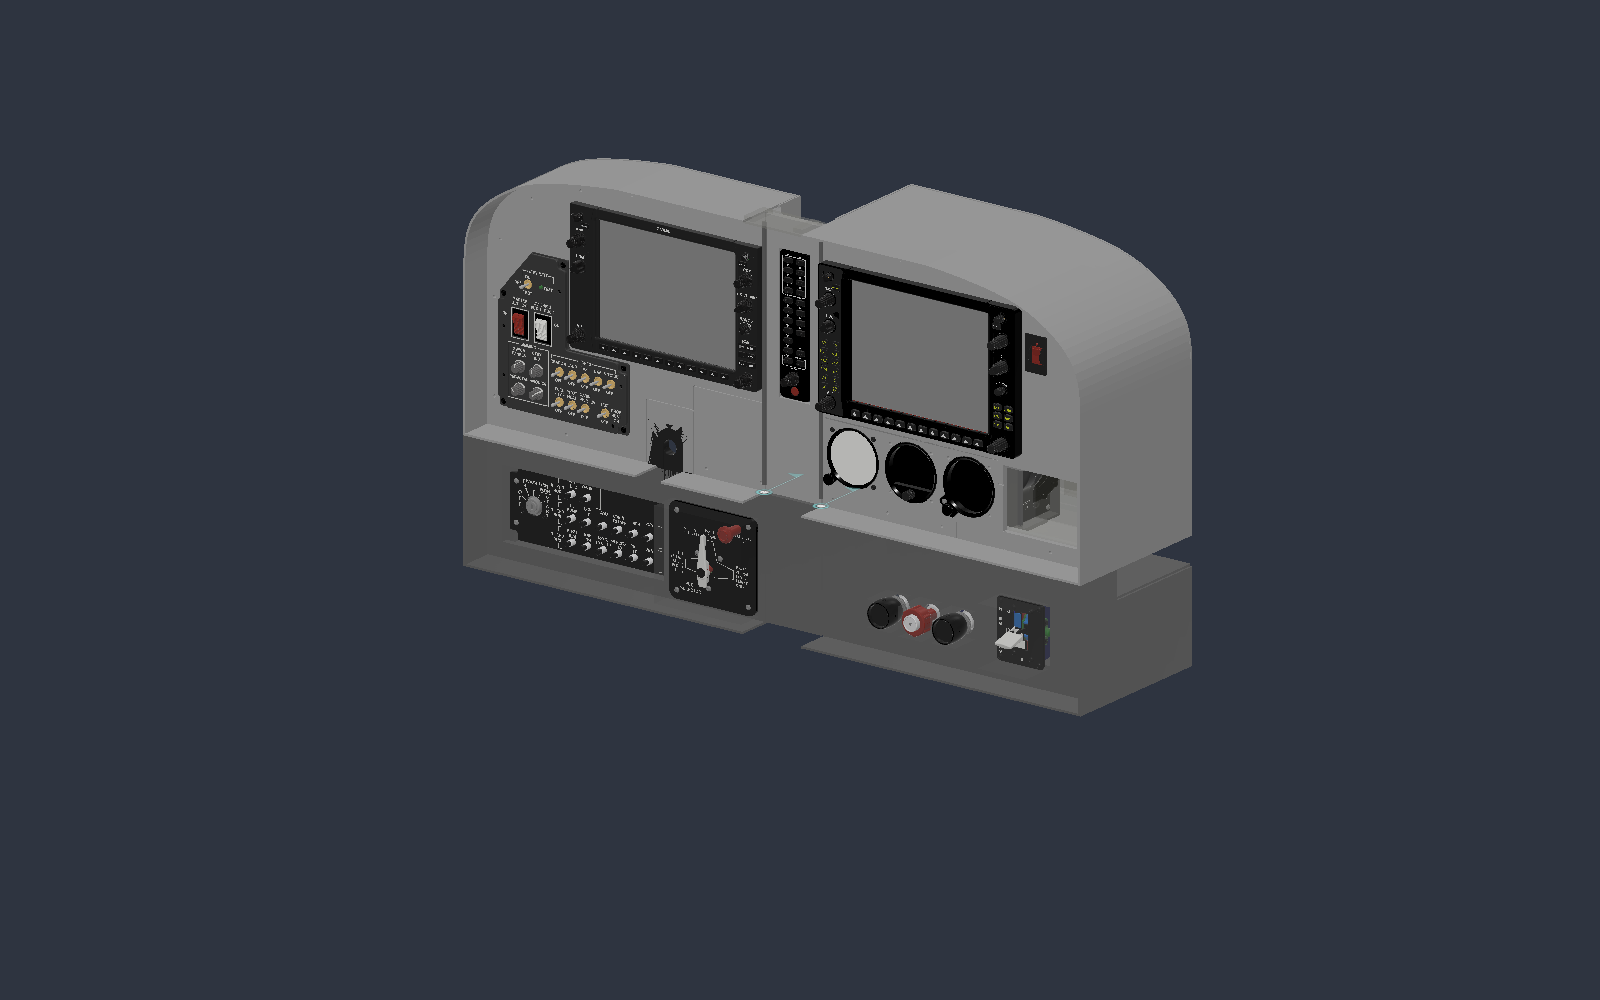
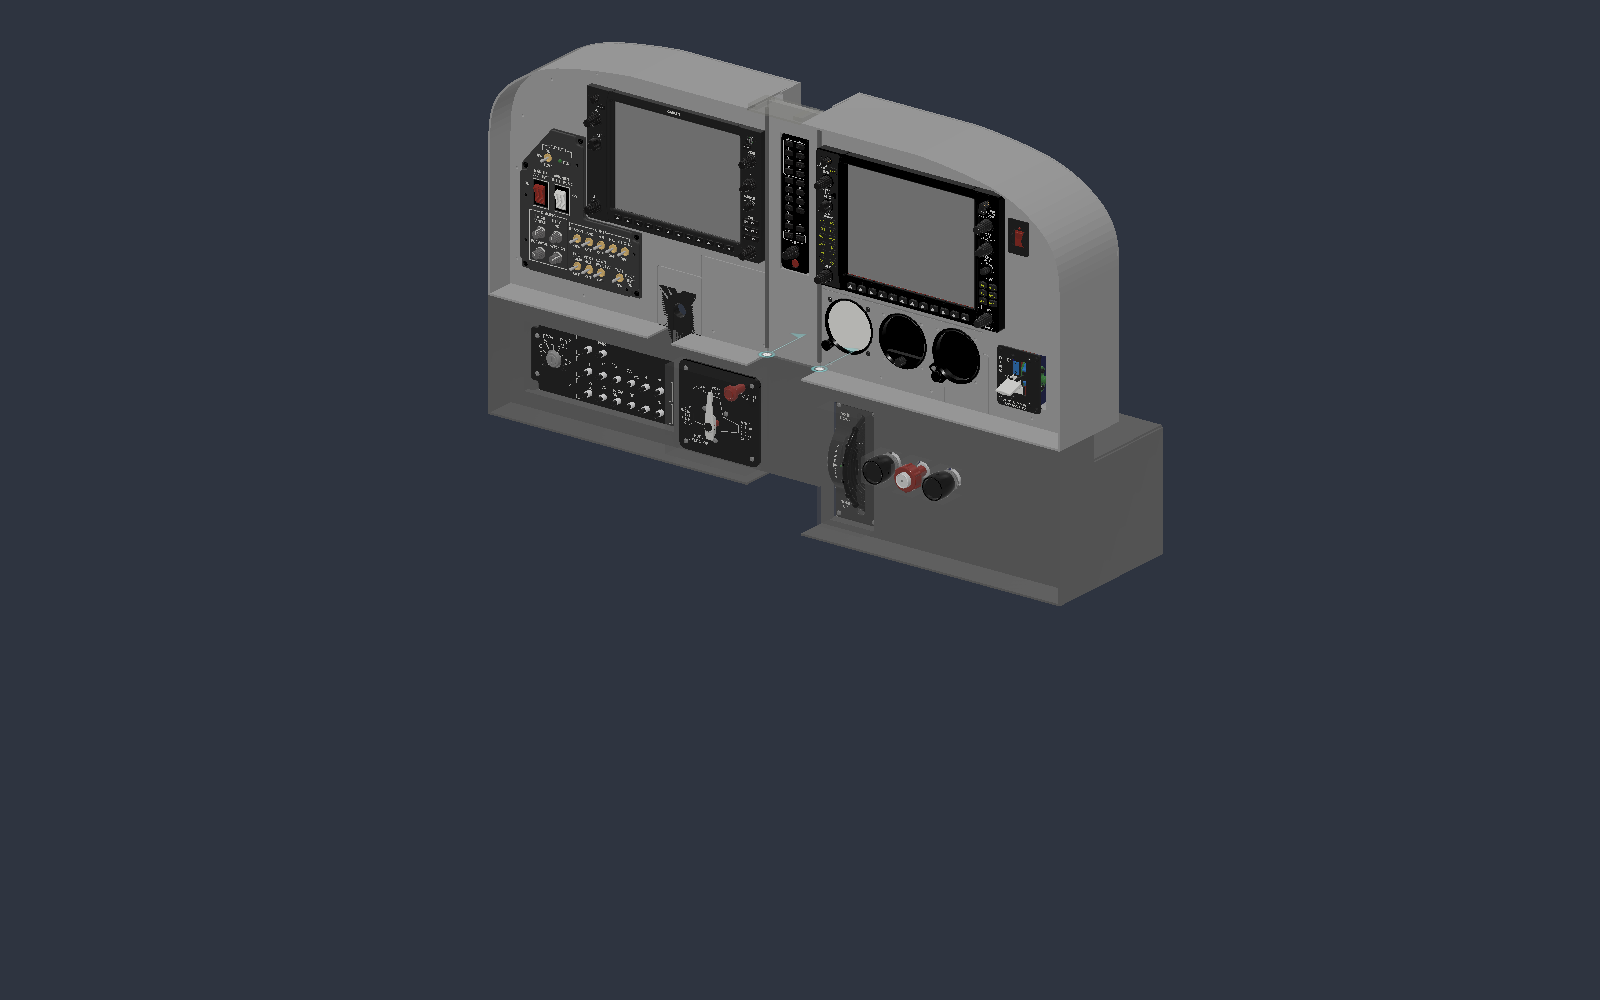
Flaps on the main panel, no storage, trim wheel in the right lower piece
Flaps lever moves to the main panel right of the standby gauges (right face pocket
gone). Main unit carries no storage (quadrant, trim pod, pedestal base removed);
right box 190 -> 90 mm. Trim wheel built into the right lower piece left of the
throttle. Lower panel packs separately: main case closes to 470 x 255 x 399.
Desk/yoke, fold and clash checks clean. BOM, jig list and PDF labels updated.

Changed region(s): [[0.2812, 0.031, 0.75, 0.713]]

diff --git a/fusion/build_lower.py b/fusion/build_lower.py
@@ -15,7 +15,7 @@ P = bcm.P
 
 HOST = {'Left half': 'Lower panel (left)', 'Spacer': 'Lower panel (spacer)', 'Right half': 'Lower panel (right)'}
 BOX_DEPTH = {'Left half': 72.0, 'Right half': 190.0}   # same as the rear boxes above
-LOWER = ('LHS Fuse panel', 'flaps lever', 'FSP3', 'Throttle', 'Mixture', 'Condition')
+LOWER = ('LHS Fuse panel', 'FSP3', 'Throttle', 'Mixture', 'Condition', 'Trim')
 
 
 def X(u):
@@ -55,7 +55,8 @@ def build_lower():
         for ch in o.childOccurrences:
             if ch.component.name.startswith('Lower panel'):
                 hosts[ch.component.name] = ch
-    plates = {h: box(X(a), X(b), -tp, 0, zb_, zt_) for h, (a, b) in spans.items()}
+    zbot = {h: (P['lower_bot_right'] if h == 'Right half' else zb_) for h in spans}
+    plates = {h: box(X(a), X(b), -tp, 0, zbot[h], zt_) for h, (a, b) in spans.items()}
 
     # cut-outs: union footprint (x, z) of each lower module's bodies that pass through the panel plane
     cuts = []
@@ -116,10 +117,11 @@ def build_lower():
             ur0, ur1 = a + 20, b - T
         its = items[h]
         its.append(('2020 Lower rail %d' % round(ur1 - ur0), prof(X(ur0), X(ur1), -tp - T, -tp, zt_ - T, zt_)))
-        its.append(('PANEL lower box side, deep (3 mm)', box(X(so0), X(so1), -B, rim, zb_ - sk, zd_under - sk)))
+        zb_h = zbot[h]
+        its.append(('PANEL lower box side, deep (3 mm)', box(X(so0), X(so1), -B, rim, zb_h - sk, zd_under - sk)))
         its.append(('PANEL lower box side, desk zone (3 mm)', box(X(so0), X(so1), fz, rim, zd_under - sk, zt_)))
-        its.append(('PANEL lower box bottom (3 mm)', box(X(min(so0, ui0)), X(max(so1, ui1)), -B, rim, zb_ - sk, zb_)))
-        its.append(('PANEL lower box lid (3 mm)', box(X(ui0), X(ui1), -B, -B + sk, zb_, zd_under - sk)))
+        its.append(('PANEL lower box bottom (3 mm)', box(X(min(so0, ui0)), X(max(so1, ui1)), -B, rim, zb_h - sk, zb_h)))
+        its.append(('PANEL lower box lid (3 mm)', box(X(ui0), X(ui1), -B, -B + sk, zb_h, zd_under - sk)))
         its.append(('PANEL lower box shelf under desk (3 mm)', box(X(ui0), X(ui1), -B, fz, zd_under - sk, zd_under)))
         its.append(('PANEL lower box desk-zone back (3 mm)', box(X(ui0), X(ui1), fz - sk, fz, zd_under, zt_)))
 

diff --git a/fusion/build_storage.py b/fusion/build_storage.py
@@ -16,7 +16,8 @@ bcm = importlib.util.module_from_spec(spec); spec.loader.exec_module(bcm)
 P = bcm.P
 
 S = dict(
-    tub_back={'Left half': 72.0, 'Right half': 190.0},   # Jason: deep parts live on the right; left is thin (rear frame sits right behind the 2040 upright)
+    tub_back={'Left half': 72.0, 'Right half': 90.0},   # Jason 2026-11-23: no storage in the main unit; right box just clears the flaps lever (76) and standby gauges (65)
+      # Jason: deep parts live on the right; left is thin (rear frame sits right behind the 2040 upright)
       # rear lid outer face behind the panel face; right is deeper (throttle rods, more storage)
     wall=3.0,
     ell_a=236.0, ell_b=153.0, ell_z=216.0,   # his panel's top outer corner curve (approximated as a quarter ellipse)
@@ -118,13 +119,6 @@ def build_storage():
         op(tray, box(X(p0), X(p1), -tp - S['pocket_depth'][h], -tp + 1, q0, q1), SUB)
         items[h].append(('PRINT face pocket tray', tray))
 
-    # stowed: quadrant envelope + pedestal base
-    q = QUADRANT
-    items[q['host']].append(('REF Logitech throttle quadrant 175x175x90 (stowed)', box(X(q['u'][0]), X(q['u'][1]), q['y'][0], q['y'][1], q['z'][0], q['z'][1])))
-    pb = PED_BASE
-    base = box(X(pb['u'][0]), X(pb['u'][1]), pb['y'][0], pb['y'][1], pb['z'][0], pb['z'][1])
-    items[pb['host']].append(('PRINT pedestal base + desk clamp (stowed)', base))
-
     for h, its in items.items():
         if not its:
             continue
@@ -174,7 +168,8 @@ def build_storage():
 
     # fuel selector now lives on the panel (left lower), so only the trim wheel is a clamp-on pod
     # pod(FUEL_POD, 'Fuel selector pod (clamp-on)', (-69.0, -75.0, -66.0), (69.0, -8.0, 66.0))   # tucked between MFD, rail and the corner curve
-    pod(TRIM_POD, 'Trim wheel pod (clamp-on)', (-41.5, -130.0, -90.0), (41.5, 0.0, 90.0))
+    # (storage removed 2026-11-23: no quadrant, trim pod or pedestal base in the main unit)
+    # pod(TRIM_POD, 'Trim wheel pod (clamp-on)', (-41.5, -130.0, -90.0), (41.5, 0.0, 90.0))
     print('storage: tubs %s mm behind face, pockets %d' % (S['tub_back'], len(P['pockets'])))
 
 

diff --git a/fusion/place_vendor.py b/fusion/place_vendor.py
@@ -17,7 +17,8 @@ PLACE = {
     # The flaps lever comes forward 40 mm (lever stands proud like the real one, mechanism stays shallow).
     'Lower Panel Assy v1:1/LHS Fuse panel v1:1': ('Lower panel (left)', 0.0, 12.0, -48.0),
     # (RHS fuse panel removed: throttle / mixture / condition push-pulls take its place, see SPLIT)
-    'Lower Panel Assy v1:1/flaps lever v1:1':    ('Lower panel (right)', 126.0, 40.0, -48.0),   # u 790-872
+    'Lower Panel Assy v1:1/flaps lever v1:1':    ('Right half', 151.0, 40.0, 120.0),   # main panel, right of the standby gauges (u 815-897, z 25-111)
+    'Trim v15:1':          ('Lower panel (right)', 162.0, 0.0, 83.0),   # built into the right lower piece, left of the throttle (u 535-609)   # u 790-872
     # fuel selector on the left lower in the old start-key spot (Jason: keep the key that's in the LHS fuse panel).
     # Face u 288-423, z -119..11 (overlaps the MIP bottom edge by 11 mm), face plate on the panel front; support body
     # fits exactly between the lower 2020 rail (z -105) and the MIP panel bottom (z 0).
@@ -35,7 +36,7 @@ SPLIT = [
     ('Lower Panel Assy v1:1/Mix Lever v1:1', 'Mixture (push-pull, pushed in)', 'Lower panel (right)', 73.0, 12.0, -48.0, MOVE_M),     # knob u 690
     ('Lower Panel Assy v1:1/throt temp v1:1', 'Condition (throttle copy, pushed in)', 'Lower panel (right)', 174.0, 12.0, -48.0, MOVE_T),  # knob u 740
 ]
-LOWER = ('LHS Fuse panel', 'flaps lever', 'FSP3', 'Throttle', 'Mixture', 'Condition')
+LOWER = ('LHS Fuse panel', 'FSP3', 'Throttle', 'Mixture', 'Condition', 'Trim')
 REMOVABLE = ('dUAL kNOB',)     # knobs that come off for travel (GMA volume knob)
 
 

diff --git a/fusion/build_case_mip.py b/fusion/build_case_mip.py
@@ -30,7 +30,9 @@ P = dict(
                                  # edge evens them so the forward-extended rims meet exactly when folded
     rim=46.5,                    # each half's rim (top, curved corner, outer side, bottom) runs this far in front of the face
     skin=3.0,
-    pockets=(('Right half', 800.0, 915.0, 24.0, 112.0),),   # left pocket removed: the yoke housing tunnel runs there
+    pockets=(),                  # face pockets removed (left: yoke tunnel; right: flaps lever moved up there)
+    flaps_cut=(833.0, 897.5, 29.0, 107.0),        # flaps lever on the main panel, right of the standby gauges
+    lower_bot_right=-225.0,      # right lower piece is taller: the trim wheel (172 mm case) sits left of the throttle
 )
 
 
@@ -107,6 +109,8 @@ def build():
         tgt = left_panel if host == 'Left half' else right_panel
         if not op(tgt, box(X(p0), X(p1), -tp - 1, 1, q0, q1), SUB):
             raise RuntimeError('pocket cut failed')
+    fc = P['flaps_cut']
+    op(right_panel, box(X(fc[0]), X(fc[1]), -tp - 1, 1, fc[2], fc[3]), SUB)
     if P['square_top']:          # fill his curved top corners (quarter-ellipse-ish NURBS from z 216 / 236 mm in)
         op(left_panel, box(X(0.0), X(237.0), -tp, 0, 215.0, 369.0), UNI)
         op(right_panel, box(X(920.0 + dR - 237.0), X(920.0 + dR), -tp, 0, 215.0, 369.0), UNI)

diff --git a/fusion/build_jigs.py b/fusion/build_jigs.py
@@ -22,11 +22,11 @@ JIGS = [
     ('J08_standby_attitude', 'Right half', 'PANEL 737', (613.0, 699.0, 28.0, 116.0), 20.0),
     ('J09_standby_altimeter', 'Right half', 'PANEL 737', (699.0, 791.0, 21.0, 116.0), 20.0),
     ('J10_ELT', 'Right half', 'PANEL 737', (834.0, 870.0, 247.0, 293.0), 20.0),
-    ('J11_right_face_pocket', 'Right half', 'PANEL 737', (796.0, 919.0, 20.0, 116.0), 20.0),
+    ('J11_flaps_lever', 'Right half', 'PANEL 737', (829.0, 901.5, 25.0, 111.0), 20.0),   # flaps moved up to the main panel
     ('J12_left_fuse_panel', 'Lower panel (left)', 'PANEL lower', (19.5, 278.0, -155.5, -46.0), 20.0),
     ('J13_fuel_selector', 'Lower panel (left)', 'PANEL lower', (298.0, 412.0, -158.0, -40.0), 20.0),
     ('J14_throttle_mixture_condition', 'Lower panel (right)', 'PANEL lower', (618.0, 762.0, -128.0, -89.0), 20.0),
-    ('J15_flaps_lever', 'Lower panel (right)', 'PANEL lower', (804.0, 877.0, -143.5, -57.5), 20.0),
+    ('J15_trim_wheel', 'Lower panel (right)', 'PANEL lower', (531.0, 613.0, -220.0, -40.0), 18.0),   # trim wheel case, left of the throttle
 ]
 
 

diff --git a/fusion/check_mip_real.py b/fusion/check_mip_real.py
@@ -29,6 +29,8 @@ def check(angles=((90, 90),), include_panels=True):
             if b.boundingBox.minPoint.y < -0.05:      # only parts in front of the panel face can collide
                 coll.add(b); groups.append(tag); tok[b.entityToken] = tag
         for c in o.childOccurrences:
+            if c.component.name.startswith('Lower panel'):
+                continue          # lower panel packs separately (Jason 2026-11-23)
             add_all(c, tag)
     for o in d.rootComponent.occurrences:
         if o.component.name in ('Left half', 'Spacer', 'Right half'):
@@ -37,6 +39,8 @@ def check(angles=((90, 90),), include_panels=True):
                     if b.name.startswith(('PANEL', 'ALU', 'PRINT')):
                         coll.add(b); groups.append(o.component.name); tok[b.entityToken] = o.component.name
             for ch in o.childOccurrences:
+                if ch.component.name.startswith('Lower panel'):
+                    continue
                 add_all(ch, o.component.name)
     out = {}
     for sp, lh in angles:

diff --git a/fabrication/make_trace_pdf.py b/fabrication/make_trace_pdf.py
@@ -21,8 +21,8 @@ GRID = 50.0
 JIGS = [('J01', 'Left main', (134, 430, 131, 326)), ('J02', 'Left main', (19, 223, 28, 245.5)), ('J03', 'Left main', (260, 308, 0, 57)),
         ('J05', 'Spacer panel', (448, 504, 125, 332)), ('J06', 'Right main', (530, 828, 131, 326)),
         ('J07', 'Right main', (523, 611, 28, 116)), ('J08', 'Right main', (613, 699, 28, 116)), ('J09', 'Right main', (699, 791, 21, 116)),
-        ('J10', 'Right main', (834, 870, 247, 293)), ('J11', 'Right main', (796, 919, 20, 116)), ('J12', 'Left lower', (19.5, 278, -155.5, -46)),
-        ('J13', 'Left lower', (298, 412, -158, -40)), ('J14', 'Right lower', (618, 762, -128, -89)), ('J15', 'Right lower', (804, 877, -143.5, -57.5))]
+        ('J10', 'Right main', (834, 870, 247, 293)), ('J11', 'Right main', (829, 901.5, 25, 111)), ('J12', 'Left lower', (19.5, 278, -155.5, -46)),
+        ('J13', 'Left lower', (298, 412, -158, -40)), ('J14', 'Right lower', (618, 762, -128, -89)), ('J15', 'Right lower', (531, 613, -220, -40))]
 
 
 class Pdf:

diff --git a/fusion/build_falsefront.py b/fusion/build_falsefront.py
@@ -16,8 +16,8 @@ Y_FRONT, Y_BACK = -11.5, -122.0     # front stays clear of the seam-angle leaf (
 # (host, inner u0, u1, inner z0, z1)  - inner box contains the fascia footprint
 CUBBIES = []   # Jason scrapped the left false front (2026-11-22); file now only places the hub / PSU envelopes   # top wall ends at z 0 (2020 rail)
 HW = [  # (host, name, u0, u1, z0, z1, y0, y1)
-    ('Right half', 'REF powered USB hub 7-port (115x45x25)', 560.0, 675.0, 240.0, 285.0, -150.0, -125.0),   # right box, behind the quadrant
-    ('Right half', 'REF 12V PSU (LRS-50-12 size 99x82x30)', 560.0, 659.0, 150.0, 232.0, -155.0, -125.0),   # right box, behind the quadrant
+    ('Right half', 'REF powered USB hub 7-port (115x45x25)', 680.0, 795.0, 150.0, 195.0, -55.0, -30.0),   # behind the MFD
+    ('Right half', 'REF 12V PSU (LRS-50-12 size 99x82x30)', 560.0, 659.0, 150.0, 232.0, -60.0, -30.0),   # behind the MFD
 ]
 
 

diff --git a/docs/BOM_MIP_Folding_Case.md b/docs/BOM_MIP_Folding_Case.md
@@ -4,7 +4,7 @@
 
 ## Summary
 
-The case is a bifold clamshell that carries the 737DIYSIM C172 main panel: a left half, an 85 mm spacer with the GMA 1347, and a right half. Deployed, the main unit sits on the desk and overhangs its front edge by 40 mm. It lowers over the Logitech yoke through a slot and a housing tunnel. The lower panel is three separate pieces bolted under it, hanging below the desktop. Packed, the lower pieces stay on and form the base: closed it is about 470 W × 355 D × 548 H mm.
+The case is a bifold clamshell that carries the 737DIYSIM C172 main panel: a left half, an 85 mm spacer with the GMA 1347, and a right half. Deployed, the main unit sits on the desk and overhangs its front edge by 40 mm. It lowers over the Logitech yoke through a slot and a housing tunnel. The lower panel is three separate pieces bolted under it, hanging below the desktop. The main unit carries no storage. Packed, the lower panel travels separately and the main case closes to about 470 W × 255 D × 399 H mm.
 
 All quantities come from the Fusion model (Folding Cockpit Case - C172, latest version). Lengths are in mm.
 
@@ -26,7 +26,7 @@ You need about 4.8 m of 2020, which nests into five 1000 mm bars, plus one 1000 
 | Rear rail, bottom | 2020 | 133 (L) / 390 (R) | 1 / 1 | Left stops short of the tunnel |
 | Rear rail, top | 2020 | 170 (L) / 164 (R) | 1 / 1 | Straight top run |
 | Depth member (left) | 2020 | 20 | 2 | Seam corners only |
-| Depth member (right) | 2020 | 118 / 138 | 2 / 2 | Deeper right box |
+| Depth member (right) | 2020 | 18 / 38 | 2 / 2 | 90 mm right box |
 | Lower panel top rail | 2020 | 390 | 2 | Behind the desk-edge strip of each lower piece |
 | Seam angle | Alu angle 20×20×2 | 369 | 4 | Both halves, plus both spacer edges (spacer pair trimmed to 16 mm leaves for the GMA plate) |
 
@@ -36,7 +36,7 @@ Suggested nesting on 1000 mm 2020 bars:
 2. 390 + 390 + 170
 3. 390 + 369 + 216
 4. 369 + 216 + 170 + 164 + 20 + 20
-5. 164 + 133 + 133 + 138 + 138 + 118 + 118
+5. 164 + 133 + 133 + 38 + 38 + 18 + 18 (about 450 mm left over)
 
 ## Sheet goods
 
@@ -45,17 +45,17 @@ The panels are 9 mm plywood and the skins are 3 mm. The rim skins wrap the curve
 | Part | Material | Size (mm) | Qty | Notes |
 | --- | --- | --- | --- | --- |
 | Main panel, left | 9 mm ply | 430 × 369 | 1 | From his MIP panel file; our yoke hole at shaft height with a slot to the bottom edge |
-| Main panel, right | 9 mm ply | 430 × 369 | 1 | His right section plus the 6 mm edge strip |
+| Main panel, right | 9 mm ply | 430 × 369 | 1 | His right section plus the 6 mm edge strip; flaps lever cut-out right of the standby gauges |
 | Spacer panel | 9 mm ply | 85 × 369 | 1 | 48 × 198 cutout for the GMA 1347 |
 | Lower panel, left | 9 mm ply | 430 × 170 | 1 | Left fuse panel and fuel selector; top 41 mm is the desk-edge strip |
-| Lower panel, right | 9 mm ply | 430 × 170 | 1 | Throttle, mixture, condition, flaps |
+| Lower panel, right | 9 mm ply | 430 × 222 | 1 | Trim wheel, throttle, mixture, condition |
 | Lower panel, spacer | 9 mm ply | 85 × 170 | 1 | Plain |
 | Rim skin, left | 3 mm bending ply or 1.5 mm aluminium | about 1140 × 116 developed | 1 | Side, curved corner, top and bottom of the main unit; tunnel and slot cut in the bottom |
-| Rim skin, right | 3 mm bending ply or 1.5 mm aluminium | about 1140 × 234 developed | 1 | Deeper right box |
+| Rim skin, right | 3 mm bending ply or 1.5 mm aluminium | about 1140 × 134 developed | 1 | Right box is 90 mm deep (flaps lever, standby gauges) |
 | Rear lid | 3 mm ply | about 433 × 375, curved top corner | 2 | Left lid has the tunnel notch |
-| Seam side wall | 3 mm ply | 43 × 375 (left), 161 × 375 (right) | 2 | Hinge side of each box |
+| Seam side wall | 3 mm ply | 43 × 375 (left), 61 × 375 (right) | 2 | Hinge side of each box |
 | Lower box, left | 3 mm ply | bottom 433 × 119, lid 430 × 129, shelf 430 × 41, back 430 × 38, sides 132 × 119 + 78 × 41 | 1 set | Stepped: 31 mm deep at the desk edge, 72 mm under the desk |
-| Lower box, right | 3 mm ply | bottom 433 × 236, lid 430 × 129, shelf 430 × 159, back 430 × 38, sides 236 × 132 + 78 × 41 | 1 set | 190 mm deep under the desk for the push-pull rods |
+| Lower box, right | 3 mm ply | bottom 433 × 236, lid 430 × 181, shelf 430 × 159, back 430 × 38, sides 236 × 184 + 78 × 41 | 1 set | 190 mm deep under the desk for the push-pull rods and trim wheel |
 
 One 1220 × 610 sheet of 9 mm ply covers all six panels. The 3 mm parts need two 1220 × 610 sheets. The rim skins are about 1.15 m long, so buy them as a long strip or join them at the top straight run.
 
@@ -75,8 +75,8 @@ Counts include about 20 % spare. Fastener counts are estimates from the joint co
 | Machine screw + nyloc nut | M3 × 8 | 30 | Hinge leaves to seam angles, every 50 mm |
 | Neodymium magnet | 6 × 3 mm | 6 | Middle glareshield (4), spare |
 | Neodymium magnet + steel disc | 10 × 3 mm | 16 + 16 | Rear lids, 8 per lid |
-| Heat-set insert | M3 | 20 | Pod, pedestal base, tray |
-| Star knob clamp screw + insert | M6 | 1 | Pedestal desk clamp |
+| Heat-set insert | M3 | 20 | Spare (no printed storage parts any more) |
+| Star knob clamp screw + insert | M6 | 1 | Not needed (trim wheel now built in) |
 | Toggle latch | Small draw latch | 3 | Hold the closed rims together; not yet modelled |
 | Carry handle | Surface mount, about 120 mm | 1 | On the top run of one rim; not yet modelled |
 
@@ -91,19 +91,18 @@ The case holds 737DIYSIM modules built from his files. The rest is off the shelf
 | GMA 1347 audio panel | 737DIYSIM | 1 | Spacer, mounted flush; volume knob comes off for travel |
 | Switch and dimmer panel (172 AV PNL) | 737DIYSIM | 1 | Left half |
 | Standby ASI, attitude, altimeter | 737DIYSIM | 1 set | Right half, in the old copilot-yoke area |
+| Flaps lever | 737DIYSIM | 1 | Right half, right of the standby gauges |
 | ELT switch | 737DIYSIM | 1 | Right half |
 | Left fuse panel with key switch | 737DIYSIM | 1 | Left lower piece |
 | Fuel selector (FSP3) | 737DIYSIM | 1 | Left lower piece, beside the fuse panel |
 | Throttle push-pull (lower-panel version) | 737DIYSIM | 2 | Right lower piece: one throttle, one used as condition |
 | Mixture push-pull | 737DIYSIM | 1 | Right lower piece |
-| Flaps lever | 737DIYSIM | 1 | Right lower piece |
-| Trim wheel (Trim v15) | 737DIYSIM | 1 | Clamp-on pod, stored in the right box |
+| Trim wheel (Trim v15) | 737DIYSIM | 1 | Right lower piece, left of the throttle |
 | Yoke adapter | 737DIYSIM | 1 | Left half, moved down to the yoke shaft height |
-| Logitech Flight Throttle Quadrant | Owned | 1 | Stored in the right box |
-| Powered USB hub, 7-port (about 115 × 45 × 25) | Off the shelf | 1 | Right box, behind the quadrant |
-| 12 V power supply, LRS-50-12 size (99 × 82 × 30) | Off the shelf | 1 | Right box, behind the quadrant |
+| Powered USB hub, 7-port (about 115 × 45 × 25) | Off the shelf | 1 | Right box, behind the MFD |
+| 12 V power supply, LRS-50-12 size (99 × 82 × 30) | Off the shelf | 1 | Right box, behind the MFD |
 
-The Logitech yoke (clamped to the desk; the main unit lowers over it) and the rudder pedals travel separately.
+The Logitech yoke (clamped to the desk; the main unit lowers over it), the throttle quadrant, the rudder pedals and the lower panel travel separately from the main case.
 
 ## 3D print list
 
@@ -111,9 +110,6 @@ Every printed case part fits the A1's 256 × 256 × 256 mm build volume. Print i
 
 | Part | Size (mm) | Qty | Fits 256 bed | Print notes |
 | --- | --- | --- | --- | --- |
-| Pedestal base + desk clamp | 220 × 110 × 45 | 1 | Yes | Flat; M6 insert for the clamp screw; stored in the right box |
-| Trim wheel pod shell | 188 × 130 × 83 | 1 | Yes | Open side up; slides onto the pedestal base; stored in the right box |
-| Face pocket tray, right | 119 × 92 × 62 | 1 | Yes | Open front down |
 | Glareshield middle piece | 91 × 56 × 9 | 1 | Yes | Top face down; 4 magnet pockets |
 
 Router jigs for the panel cut-outs (17 prints, all within the bed) are in the fabrication files, with the 1:1 tracing PDF. His 737DIYSIM printed parts print from his files; one plate in the MFD assembly is 346 × 238 mm, over the bed.

diff --git a/fabrication/README.md b/fabrication/README.md
@@ -28,11 +28,11 @@ edges and the nearby screw holes as small drill marks. Print in PETG, 4 walls, 4
 | J06 | MFD opening | A + B (half-lap, 2 x M3) |
 | J07-J09 | Standby ASI, attitude, altimeter | 1 each |
 | J10 | ELT switch | 1 |
-| J11 | Right face pocket | 1 |
+| J11 | Flaps lever (main panel, right of the standby gauges) | 1 |
 | J12 | Left fuse panel | A + B (half-lap, 2 x M3) |
 | J13 | Fuel selector (left lower) | 1 |
 | J14 | Throttle 31 / mixture 27 / condition 31 mm holes | 1 |
-| J15 | Flaps lever | 1 |
+| J15 | Trim wheel (right lower, left of the throttle) | 1 |
 
 How to use (flush-trim / pattern bit with a top bearing, 1/4 in shank cutter, cutting length >= 12 mm):
 
